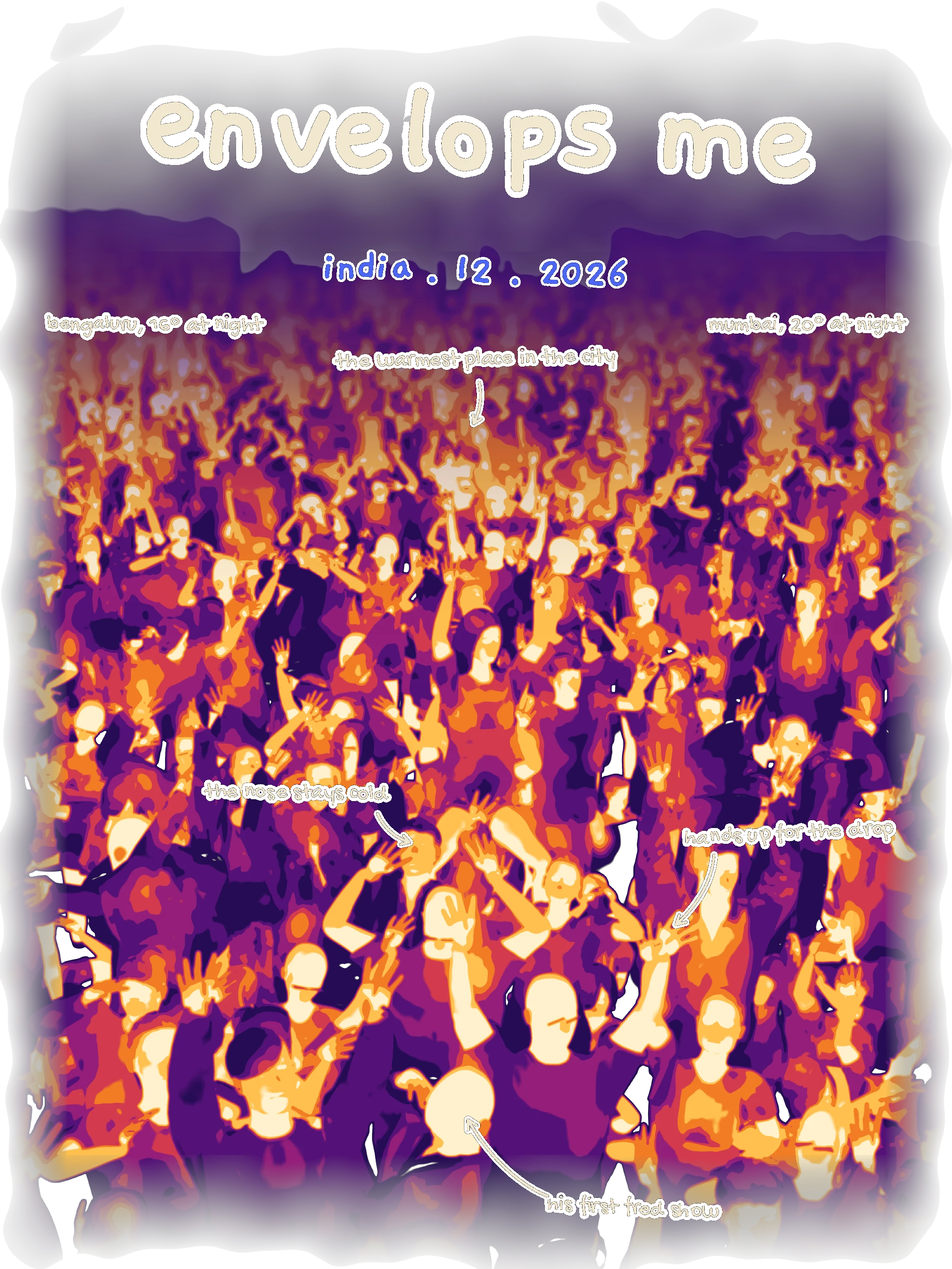
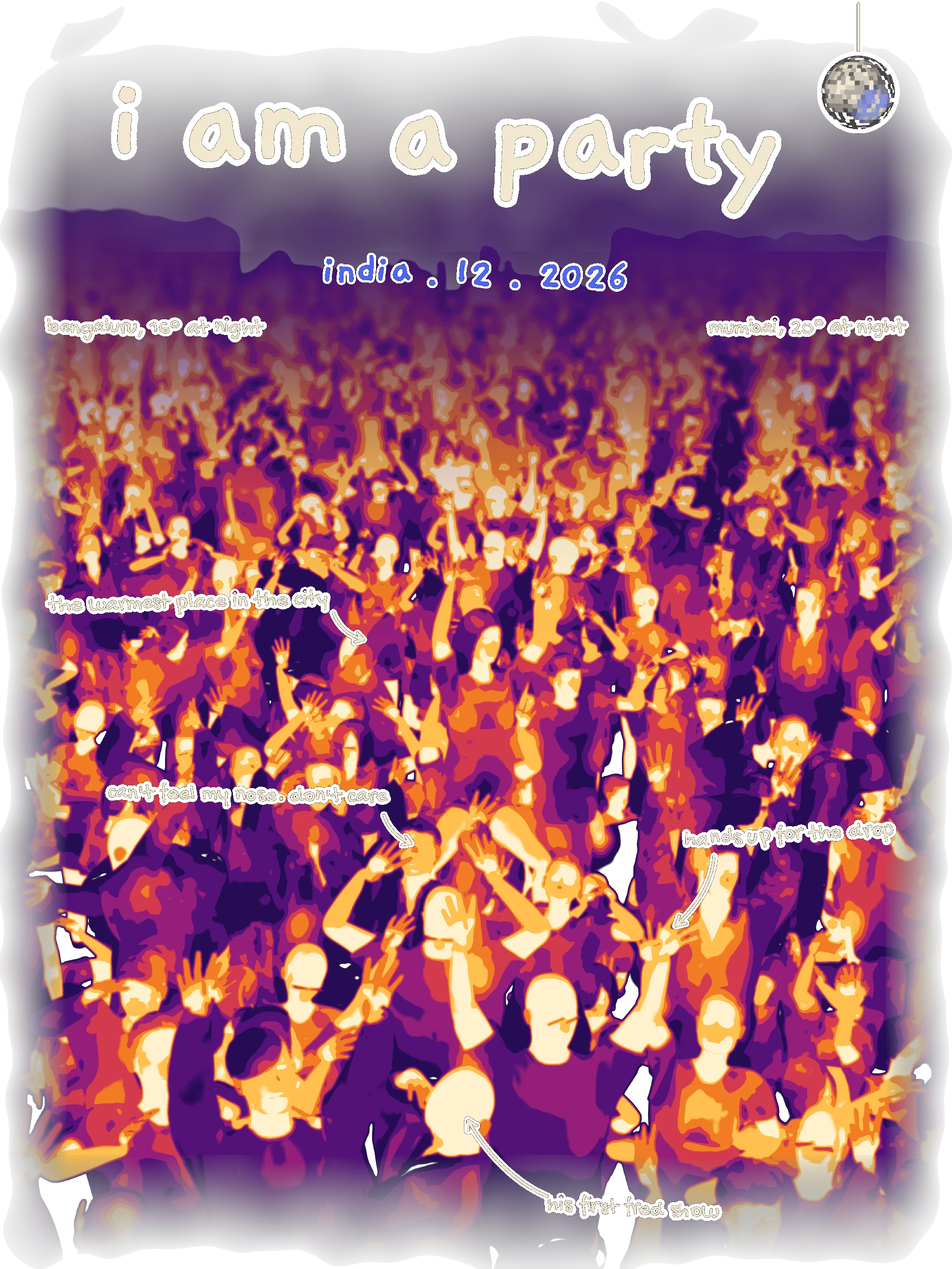
0.16.1: 02 is i am a party, after the Fred again.. song. A small mirror ball hangs beside the title: real mirror tiles rendered in Cycles (discoball.py, with a tile-id pass) and cut one flat tone per tile (discoball_ink.py), a blue light glancing off one side. the warmest place in the city moves dow

diff --git a/src/content/tee.ts b/src/content/tee.ts
@@ -8,12 +8,12 @@ export type City = "mumbai" | "bengaluru";
 
 /**
  * Four shirts. Same blank, same front (again.. in four scripts); the back is what changes.
- * The tour has two (the crowd, both cities in one drawing, and envelops me); each city has its map.
+ * The tour has two (the crowd, both cities in one drawing, and i am a party); each city has its map.
  * Each shirt comes in one colour only: a night shirt in black, a day shirt in off white.
  */
 export const DESIGNS: Record<Design, { no: string; name: string; city: City | null; colour: Colour; back: string }> = {
   c: { no: "01", name: "crowd", city: null, colour: "black", back: "both nights in one drawing: the crowd from behind, the green line stopping at Madavara on one side, the Mumbai skyline behind the race course on the other, people from both cities in front" },
-  e: { no: "02", name: "envelops me", city: null, colour: "black", back: "both nights through a heat camera: the crowd from the stage, hands up for the drop, every breath rising into the December air, the warmest place in the city, 16° in Bengaluru, 20° in Mumbai" },
+  e: { no: "02", name: "i am a party", city: null, colour: "black", back: "both nights through a heat camera: the crowd from the stage, hands up for the drop, every breath rising into the December air under a mirror ball, 16° in Bengaluru, 20° in Mumbai" },
   a: { no: "03", name: "map", city: "mumbai", colour: "cream", back: "the race course from above, the sea beside it, the sound rolling out from the stage" },
   d: { no: "04", name: "map", city: "bengaluru", colour: "cream", back: "the NICE grounds from above, every person in the crowd drawn, friends holding hands; the last train in at Madavara, Tumakuru Road jammed, the sound rolling out over the village to the lake" },
 };

diff --git a/pipeline/art/breath/discoball.py b/pipeline/art/breath/discoball.py
@@ -1,0 +1,85 @@
+# 02 i am a party: a real mirror ball for beside the title. Rows of square mirror tiles on a sphere (as the real ones
+# are built: each row holds as many tiles as its circumference allows), a dark room with a few hard lights, rendered
+# in Cycles; discoball_ink.py cuts the render into the shirt's flat inks.
+#   blender -b --factory-startup -P pipeline/art/breath/discoball.py -- <out.png> [px]
+import bpy, bmesh, math, sys, mathutils
+argv = sys.argv[sys.argv.index("--") + 1:]
+OUT = argv[0]; PX = int(argv[1]) if len(argv) > 1 else 800
+bpy.ops.wm.read_factory_settings(use_empty=True)
+sc = bpy.context.scene
+R, T, GAP = 1.0, 0.13, 0.014                       # radius, tile, grout (the grout is never printed; the tiles read by tone)
+bm = bmesh.new()
+rows = int(math.pi * R / T)
+for i in range(rows):
+    lat = -math.pi / 2 + (i + 0.5) * math.pi / rows
+    n = max(1, int(2 * math.pi * R * math.cos(lat) / T))
+    for k in range(n):
+        lon = (k + 0.5) * 2 * math.pi / n + (i % 2) * math.pi / n
+        nrm = mathutils.Vector((math.cos(lat) * math.cos(lon), math.cos(lat) * math.sin(lon), math.sin(lat)))
+        east = mathutils.Vector((-math.sin(lon), math.cos(lon), 0)); north = nrm.cross(east)
+        c = nrm * R; h = (T - GAP) / 2
+        vs = [bm.verts.new(c + east * a + north * b) for a, b in ((-h, -h), (h, -h), (h, h), (-h, h))]
+        bm.faces.new(vs)
+me = bpy.data.meshes.new("tiles"); bm.to_mesh(me); NT = len(me.polygons)
+ca = me.color_attributes.new("tid", "FLOAT_COLOR", "FACE")
+for i in range(NT): ca.data[i].color = (((i + 1) % 256) / 255, ((i + 1) // 256) / 255, 0, 1)
+tiles = bpy.data.objects.new("tiles", me); sc.collection.objects.link(tiles)
+mirror = bpy.data.materials.new("mirror"); mirror.use_nodes = True
+b = mirror.node_tree.nodes["Principled BSDF"]; b.inputs["Metallic"].default_value = 1; b.inputs["Roughness"].default_value = 0.12
+b.inputs["Base Color"].default_value = (0.9, 0.9, 0.9, 1); tiles.data.materials.append(mirror)
+# the grout: a dark core just under the tiles
+bpy.ops.mesh.primitive_uv_sphere_add(radius=R * 0.985, segments=64, ring_count=32); core = bpy.context.object
+dark = bpy.data.materials.new("grout"); dark.use_nodes = True
+dark.node_tree.nodes["Principled BSDF"].inputs["Base Color"].default_value = (0.01, 0.01, 0.01, 1); core.data.materials.append(dark)
+bpy.ops.object.shade_smooth()
+# a dark room with a few hard lights for the tiles to throw back
+# the room the tiles reflect: patches of light and dark all round (a club: lamps, screens, people, dark walls), so
+# every tile throws back something different
+w = bpy.data.worlds.new("room"); w.use_nodes = True; wn = w.node_tree.nodes; wl = w.node_tree.links; sc.world = w
+tc = wn.new("ShaderNodeTexCoord"); nz = wn.new("ShaderNodeTexNoise"); nz.inputs["Scale"].default_value = 5.0
+nz.inputs["Detail"].default_value = 3.0; nz.inputs["Roughness"].default_value = 0.6
+ramp = wn.new("ShaderNodeValToRGB"); ramp.color_ramp.elements[0].position = 0.42; ramp.color_ramp.elements[1].position = 0.62
+wl.new(tc.outputs["Generated"], nz.inputs["Vector"]); wl.new(nz.outputs["Fac"], ramp.inputs["Fac"])
+# and a key light up and to the left of the camera: the tiles facing it blaze, the far side falls to dark, so it reads round
+dot = wn.new("ShaderNodeVectorMath"); dot.operation = "DOT_PRODUCT"; dot.inputs[1].default_value = (-0.55, -0.55, 0.63)
+wl.new(tc.outputs["Generated"], dot.inputs[0])
+key = wn.new("ShaderNodeMapRange"); key.inputs["From Min"].default_value = -0.2; key.inputs["From Max"].default_value = 1.0
+key.inputs["To Min"].default_value = 0.08; key.inputs["To Max"].default_value = 1.6; wl.new(dot.outputs["Value"], key.inputs["Value"])
+mul = wn.new("ShaderNodeMix"); mul.data_type = "RGBA"; mul.blend_type = "MULTIPLY"; mul.inputs["Factor"].default_value = 1.0
+wl.new(ramp.outputs["Color"], mul.inputs[6]); wl.new(key.outputs["Result"], mul.inputs[7])
+# a blue wash from low on the right (a screen, a stage light): the tiles facing it throw back the brand blue
+dot2 = wn.new("ShaderNodeVectorMath"); dot2.operation = "DOT_PRODUCT"; dot2.inputs[1].default_value = (0.7, -0.35, -0.6)
+wl.new(tc.outputs["Generated"], dot2.inputs[0])
+bl = wn.new("ShaderNodeMapRange"); bl.inputs["From Min"].default_value = 0.5; bl.inputs["From Max"].default_value = 0.9
+wl.new(dot2.outputs["Value"], bl.inputs["Value"])
+tint = wn.new("ShaderNodeMix"); tint.data_type = "RGBA"; tint.inputs[7].default_value = (0.42, 0.55, 1.0, 1)
+wl.new(bl.outputs["Result"], tint.inputs["Factor"]); wl.new(mul.outputs[2], tint.inputs[6])
+wl.new(tint.outputs[2], wn["Background"].inputs["Color"]); wn["Background"].inputs["Strength"].default_value = 1.4
+em = bpy.data.materials.new("lamp"); em.use_nodes = True; nt = em.node_tree; nt.nodes.clear()
+e = nt.nodes.new("ShaderNodeEmission"); e.inputs["Strength"].default_value = 40; o = nt.nodes.new("ShaderNodeOutputMaterial"); nt.links.new(e.outputs[0], o.inputs[0])
+for (x, y, z, s) in [(-3, -6, 4, 1.6), (4, -5, 2.5, 1.0), (-1, -7, -1.5, 0.7), (2.5, -4, 5.5, 0.6), (-5, -2, 0.5, 0.8)]:
+    bpy.ops.mesh.primitive_plane_add(size=s, location=(x, y, z)); p = bpy.context.object
+    p.rotation_euler = (mathutils.Vector((0, 0, 0)) - p.location).to_track_quat("Z", "Y").to_euler(); p.data.materials.append(em)
+cam = bpy.data.cameras.new("cam"); cam.type = "ORTHO"; cam.ortho_scale = 2.08
+co = bpy.data.objects.new("cam", cam); co.location = (0, -10, 0.6); sc.collection.objects.link(co)
+co.rotation_euler = (mathutils.Vector((0, 0, 0)) - co.location).to_track_quat("-Z", "Y").to_euler(); sc.camera = co
+sc.render.engine = "CYCLES"; sc.cycles.samples = 48; sc.cycles.device = "CPU"
+sc.render.resolution_x = sc.render.resolution_y = PX; sc.render.film_transparent = True
+sc.render.image_settings.file_format = "PNG"; sc.render.image_settings.color_mode = "RGBA"; sc.render.filepath = OUT
+sc.view_settings.view_transform = "Standard"
+bpy.ops.render.render(write_still=True); print("ball ok", OUT)
+# second pass: which tile each pixel belongs to (flat id colours, no filtering, no colour management), so the ink step
+# can give every tile exactly one tone taken from its own reflection
+idm = bpy.data.materials.new("tid"); idm.use_nodes = True; nt = idm.node_tree; nt.nodes.clear()
+at = nt.nodes.new("ShaderNodeAttribute"); at.attribute_name = "tid"; e = nt.nodes.new("ShaderNodeEmission")
+o = nt.nodes.new("ShaderNodeOutputMaterial"); nt.links.new(at.outputs["Color"], e.inputs["Color"]); nt.links.new(e.outputs[0], o.inputs[0])
+tiles.data.materials[0] = idm
+blk = bpy.data.materials.new("blk"); blk.use_nodes = True; nt = blk.node_tree; nt.nodes.clear()
+e = nt.nodes.new("ShaderNodeEmission"); e.inputs["Color"].default_value = (0, 0, 0, 1); o = nt.nodes.new("ShaderNodeOutputMaterial"); nt.links.new(e.outputs[0], o.inputs[0])
+core.data.materials[0] = blk
+for ob in sc.objects:
+    if ob.name.startswith("Plane"): ob.hide_render = True
+w2 = bpy.data.worlds.new("none"); w2.use_nodes = True; w2.node_tree.nodes["Background"].inputs[0].default_value = (0, 0, 0, 1); sc.world = w2
+sc.cycles.samples = 1; sc.cycles.use_denoising = False; sc.cycles.filter_width = 0.01; sc.cycles.max_bounces = 0
+sc.render.dither_intensity = 0; sc.view_settings.view_transform = "Raw"; sc.render.filepath = OUT.replace(".png", "-id.png")
+bpy.ops.render.render(write_still=True); print("ids ok", sc.render.filepath, NT)

diff --git a/pipeline/art/breath/discoball_ink.py b/pipeline/art/breath/discoball_ink.py
@@ -1,0 +1,37 @@
+# the mirror ball render (discoball.py) cut into the shirt's flat inks. Every tile gets one flat tone, from the mean of
+# its own reflection: cream for the tiles that blaze, warm greys down to a dark grey, the rest the shirt's own black
+# (knocked out to fabric by printtex/texture). Where the blue light glances off, the same tone goes cooler, a sheen of
+# the brand blue rather than blue tiles. The grout is far finer than the print can hold, so the tiles meet edge to edge.
+#   python3 pipeline/art/breath/discoball_ink.py <render.png> <out.png> <px>   (reads <render>-id.png beside it)
+import sys, numpy as np
+from PIL import Image
+src, out, px = sys.argv[1], sys.argv[2], int(sys.argv[3])
+beauty = np.asarray(Image.open(src).convert("RGBA").resize((px, px), Image.BOX)).astype(np.float32) / 255
+idp = np.asarray(Image.open(src.replace(".png", "-id.png")).convert("RGB").resize((px, px), Image.NEAREST)).astype(np.int32)
+tid = idp[..., 0] + idp[..., 1] * 256                       # 0 is grout or empty
+inside = beauty[..., 3] > 0.5
+# the grout: each grout pixel takes the tile next to it
+for _ in range(6):
+    z = (tid == 0) & inside
+    if not z.any(): break
+    for dy, dx in ((0, 1), (0, -1), (1, 0), (-1, 0)):
+        nb = np.roll(np.roll(tid, dy, 0), dx, 1); fill = z & (nb > 0) & (tid == 0); tid[fill] = nb[fill]
+n = tid.max() + 1
+cnt = np.bincount(tid.ravel(), minlength=n).astype(np.float32) + 1e-6
+mean = np.stack([np.bincount(tid.ravel(), beauty[..., c].ravel(), n) / cnt for c in range(3)], 1)
+lum = mean.mean(1); coolness = mean[:, 2] / np.maximum(mean[:, 0], 1e-3)
+# no two real mirror tiles sit at quite the same angle: a small tilt per tile, so neighbours rarely share a tone
+lum = lum + np.random.default_rng(12).normal(0, 0.06, n)
+TONES = [(0.82, (241, 231, 208)), (0.66, (212, 205, 190)), (0.52, (178, 172, 160)), (0.39, (140, 135, 127)),
+         (0.27, (104, 101, 97)), (0.16, (70, 68, 66))]
+DARK, BLUE = np.array((21, 21, 21), np.float32), np.array((76, 102, 245), np.float32)
+col = np.tile(DARK, (n, 1))
+for t, c in reversed(TONES): col[lum > t] = c
+# the blue light glancing off: only the tiles turned to it, and the brighter the tile the more of the blue it throws
+cool = (lum > 0.27) & (coolness > 1.12) & (np.random.default_rng(7).random(n) < 0.7)
+k = np.where(lum > 0.6, 0.55, 0.35)
+col[cool] = col[cool] * (1 - k[cool, None]) + BLUE * k[cool, None]
+col[0] = DARK
+rgb = col[tid].round().clip(0, 255).astype(np.uint8)
+alpha = (inside * 255).astype(np.uint8)
+o = Image.fromarray(rgb).convert("RGBA"); o.putalpha(Image.fromarray(alpha)); o.save(out); print("ink ok", out, n - 1, "tiles")

diff --git a/CHANGELOG.md b/CHANGELOG.md
@@ -2,6 +2,14 @@
 
 Versions follow [SemVer](https://semver.org): MAJOR for a new site or pipeline structure, MINOR for a new garment, colourway, size or studio feature, PATCH for fixes to renders, numbers or copy. Every release is a git tag `vX.Y.Z` with its renders attached to the GitHub release.
 
+## 0.16.1 — 2026-11-25
+02 is i am a party now, after the Fred again.. song.
+
+### Shirts
+- The title reads i am a party, with a small mirror ball hanging beside it: a real ball of mirror tiles, rendered and cut into flat tones, a blue light glancing off one side.
+- the warmest place in the city sits lower now, over the crowd, out of the sky. The nose line is can't feel my nose. don't care. Both notes have small arrows.
+- New try-on textures and prints to match.
+
 ## 0.16.0 — 2026-11-25
 02 is called envelops me now, after a Fred again.. song, the way Still Breathing is.
 
